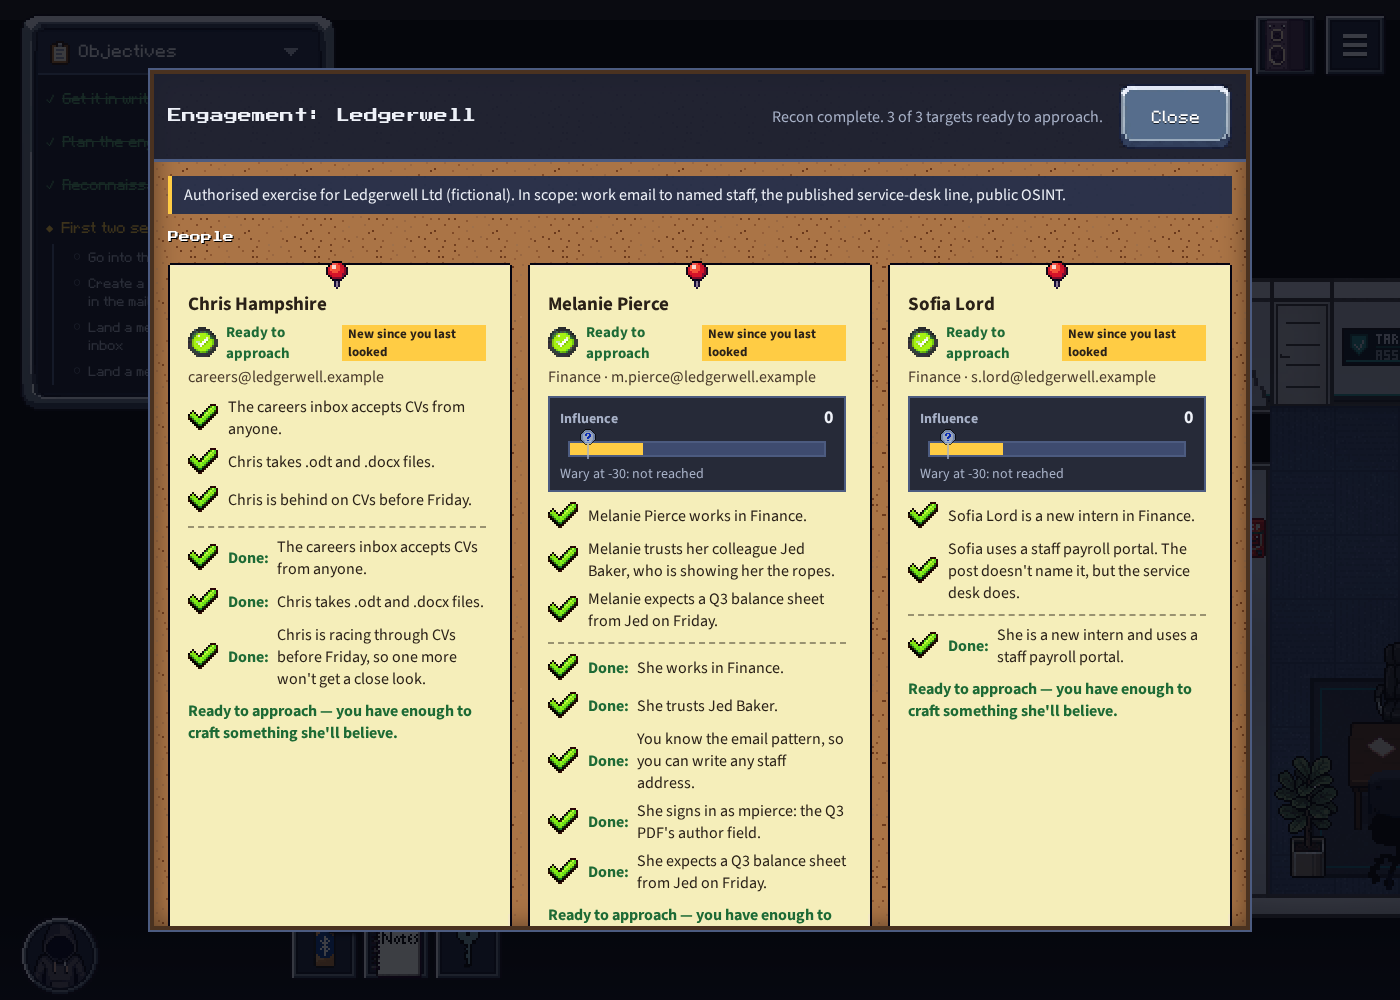
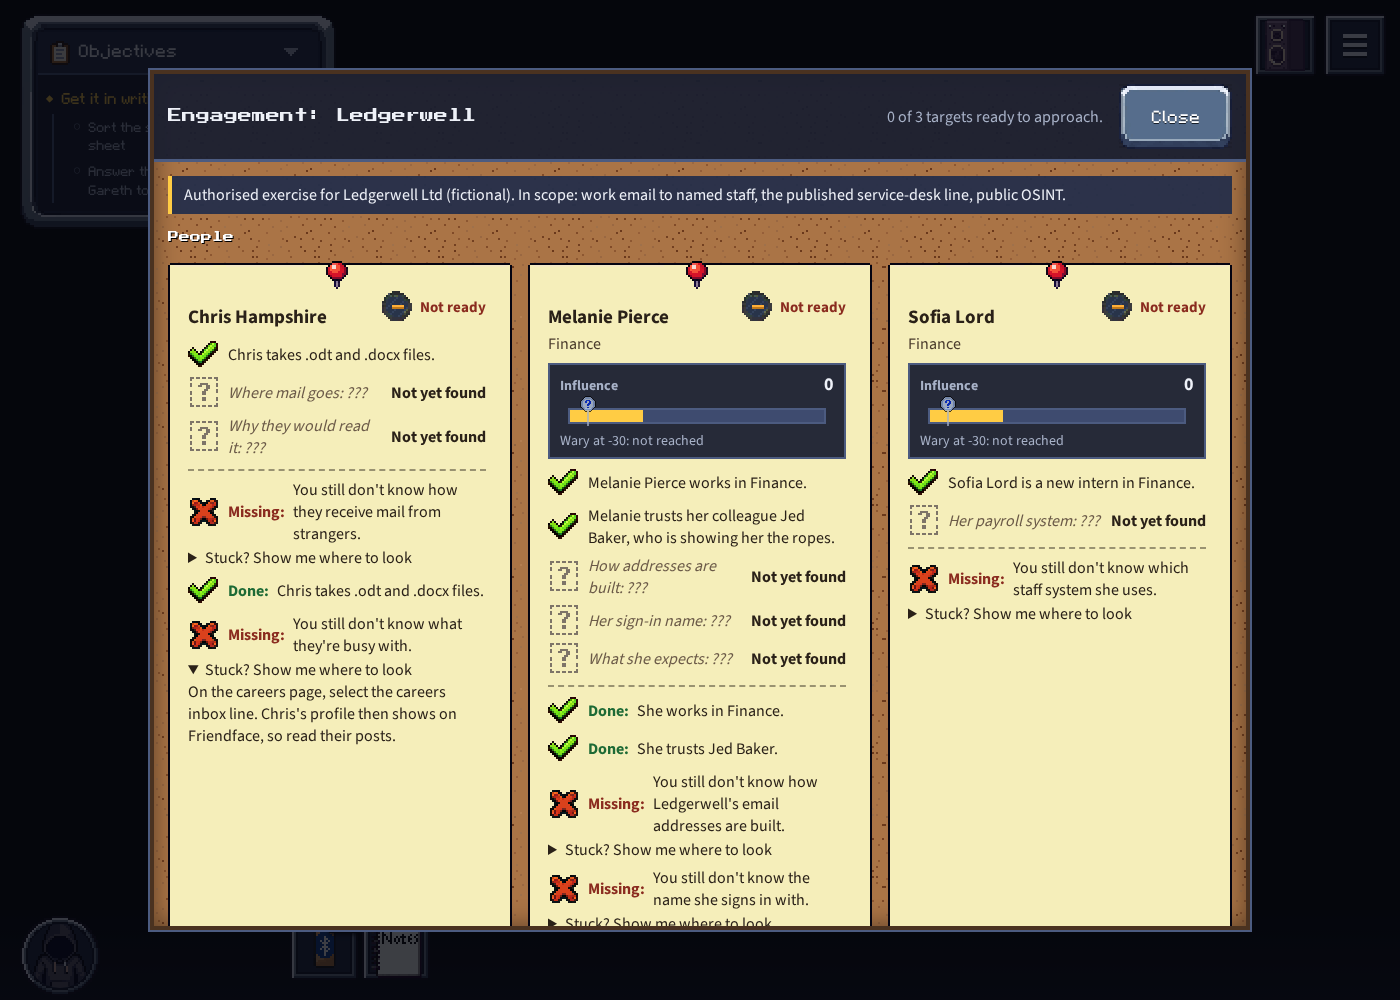
Phishing and Social Engineering (Break Escape) lab sheet: refresh for lab R15-R17 and dialogue cycle 6 (Stuck? pointers, careers-inbox line for Chris, real-domain block reason, either-order page and call, two-minute Dev lockout, voiced calls); retake Case File, composer and page builder screenshots

diff --git a/_labs/cyber_security_landscape/phishing_and_social_engineering_game.md b/_labs/cyber_security_landscape/phishing_and_social_engineering_game.md
@@ -65,13 +65,15 @@ A first run takes about 60 to 90 minutes, depending on how much you read and how
 
 ### How to Play {#how-to-play}
 
-You move with the arrow keys or by clicking. Click objects, people, doors and workstations to interact. Keys you collect go to the inventory bar at the bottom of the screen. Each workstation runs one tool as a small on-screen app (the research browser, the mail client, the page builder, the phone, the report, the triage inbox and the defender board).
+You move with the arrow keys or by clicking. Click objects, people, doors and workstations to interact. Keys you collect go to the inventory bar at the bottom of the screen. Each workstation runs one tool as a small on-screen app (the research browser, the mail client, the page builder, the phone, the report, the triage inbox and the defender board). The people are voiced, including Dev on the desk phone, so turn your sound on; every line is also shown as text.
 
 The engagement runs through four rooms off the Engagement Office: you unlock the **Recon Room**, the **Operations Room** and the **Blue Team Room** in turn, each with a key Ruth hands you when the stage before it is done.
 
+> Tip: Most tools put a **Stuck? Show me where to look** link under anything you have not found yet: each missing row on the Case File, and each empty blank in the mail composer. Open it and it names the source to check, never the answer.
+
 > Tip: Nothing in this game is scored by catching you out, and no choice is a dead end. A wrong pick comes back with the reason it was wrong, so read the feedback rather than guessing again. The "wrong" answers are there to teach, so it is worth reading why they are wrong even when you picked the right one.
 
-> Warning: Watch the people you are attacking as well as the machines. The service desk operator, Dev, is friendly and helpful, but push him too hard and he will get suspicious, stop helping, and report your call to his manager. That is realistic, and it is recoverable, but it costs you time.
+> Warning: Watch the people you are attacking as well as the machines. The service desk operator, Dev, is friendly and helpful, but push him too hard and he will get suspicious, stop helping, and report your call to his manager. That is realistic, and it is recoverable, but he will not take another call for about two minutes.
 
 ## Concepts {#concepts}
 
@@ -179,7 +181,7 @@ A **pretext** is the false identity and story you use to get someone to help you
 
 Dev, the service desk operator, is good at his job. His policy is to check a caller's claimed facts against the new-starter list: a name and a team. Both of those are on Ledgerwell's public pages, so an attacker can pass the check. What his policy does not tell him to do is call back on a number already on file, and that is the gap, not Dev.
 
-The call is a balance. Being a calm, candid colleague keeps Dev helping. Leaning on him with false **urgency** ("she's panicking, it's her first payslip") or **borrowed authority** ("her manager said you'd sort this") makes him wary; keep pushing and he refuses, then reports the call and will not take another for a while. If you get a fact wrong and own the correction early (**candour**), it costs you less than defending it. The lesson for a defender is at the end: an attacker can fake a name and a team, but not a call back to the number the company already holds.
+The call is a balance. Being a calm, candid colleague keeps Dev helping. Leaning on him with false **urgency** ("she's panicking, it's her first payslip") or **borrowed authority** ("her manager said you'd sort this") makes him wary; keep pushing and he refuses, then reports the call and will not take another for about two minutes. If you get a fact wrong and own the correction early (**candour**), it costs you less than defending it. The lesson for a defender is at the end: an attacker can fake a name and a team, but not a call back to the number the company already holds.
 
 > Question: Dev did nothing against his policy, yet he gave away enough to make the intern's email believable. Whose problem is that, and what one change to the policy would have stopped it without making Dev's job harder?
 
@@ -215,7 +217,7 @@ Find the stage you are on. Read the hint, then go back and try. If you are still
 <details markdown="1">
 <summary>Nudge</summary>
 
-Work email to named staff and the published service-desk line are the sort of thing the client is paying you to test. Personal accounts and anything that touches real customers or a live service are not, however tempting. The stop-rule is about a real compromise you did not cause: a real incident is not yours to touch, fix or ignore, so there is only one safe answer.
+Work email to named staff and the published service-desk line are the sort of thing the client is paying you to test. Staff's personal addresses are not, however tempting, and nor is anything that touches real customers or a live service. The stop-rule is about a real compromise you did not cause: a real incident is not yours to touch, fix or ignore, so there is only one safe answer.
 
 When you answer Gareth's opening question, the honest answer is the one that keeps people reporting: the test is about the gaps in his process, not about catching anyone out.
 
@@ -264,12 +266,16 @@ The objective is about learning how far an attack gets, not about disrupting pay
 
 ![The OSINT research browser]({{ site.baseurl }}/assets/images/cyber_security_landscape/phishing_and_social_engineering_game/04-osint-workstation.png)
 
-> Hint: The Case File board has a card for each target with "missing" rows. Each gap tells you what is short, and a "Stuck?" link under it points you at the source. Everything you need is public.
+> Hint: The Case File has a card for each target with **Missing** rows. Each one says what you still don't know, and the **Stuck? Show me where to look** link under it names the source. Everything you need is public.
+
+![The Case File, with a Stuck? pointer open on Chris's card]({{ site.baseurl }}/assets/images/cyber_security_landscape/phishing_and_social_engineering_game/05-case-file-board.png)
 
 <details markdown="1">
 <summary>Nudge: filling the cards</summary>
 
-Use the research browser on the OSINT Workstation. The team page gives roles; the team notes and the staff social posts give what each person trusts and is waiting for; a lookup tool gives the email pattern, so you can write any staff address. One card needs the company's **username** convention, not just the address pattern, and that comes from a different kind of source.
+Use the research browser on the OSINT Workstation. You record a fact by selecting the line that says it. The team page gives roles; the team notes and the staff social posts on Friendface give what each person trusts and is waiting for; the How to apply page says what files the careers inbox takes; a lookup under **Tools** gives the email pattern, so you can write any staff address. One card needs the company's **username** convention, not just the address pattern, and that comes from a different kind of source.
+
+Chris's Friendface profile is hidden at first. It appears once you select the careers inbox line on the company's Careers page, so a card that will not fill often means a line you read but did not select.
 
 Watch for two decoys. The archived 2019 org chart is marked as old; the second J. Baker is a plumber in Leeds. A fact you confirm from a current source beats a fact that merely fits.
 
@@ -278,7 +284,7 @@ Watch for two decoys. The archived 2019 org chart is marked as old; the second J
 <details markdown="1">
 <summary>Nudge: the username pattern</summary>
 
-A published document keeps its author's name in its properties, whether or not the author meant to leave it there. Open the company's published PDF and read its properties; the author field gives away how usernames are built. Ruth will nudge you towards it if the board says recon is otherwise complete.
+A published document keeps its author's name in its properties, whether or not the author meant to leave it there. Open the company's published PDF and read its properties; the author field gives away how usernames are built. Melanie's card keeps a "sign-in name" row open until you do, and Ruth will not hand over the Operations Room key without it.
 
 **Learn it:** ==action: Open the PDF's Document properties and read the Author field== before you let the game tick the card, so you see where the leak is.
 
@@ -287,10 +293,11 @@ A published document keeps its author's name in its properties, whether or not t
 <details markdown="1">
 <summary>Steps</summary>
 
-1. \==action: Open the OSINT Workstation and read the company site, the social profiles and the team notes==.
-2. \==action: Run the lookup tool for the email pattern==, and the name search (noticing the plumber).
-3. \==action: Open the published PDF's properties and read the author==.
-4. \==action: Fill all three cards on the Case File board==, then take the Operations Room key from Ruth.
+1. \==action: Open the OSINT Workstation and read the company site: Our Team, Team notes, Careers, How to apply and the Archive==, selecting each line you want to keep.
+2. \==action: On the Careers page, select the careers inbox line==, then read Chris's posts, which now show on Friendface, along with Melanie's and Sofia's.
+3. \==action: Under Tools, run the Hunter lookup for the email pattern==, and the name search (noticing the plumber).
+4. \==action: Open the published PDF and read its properties, including the author==.
+5. \==action: Check the Case File until all three cards are ready==, then take the Operations Room key from Ruth.
 
 </details>
 
@@ -300,14 +307,12 @@ A published document keeps its author's name in its properties, whether or not t
 
 **Where:** the Operations Room (east), at the Mail Workstation. **Goal:** get the careers inbox and then Melanie Pierce to act on a message.
 
-![The mail composer, building a spear-phish]({{ site.baseurl }}/assets/images/cyber_security_landscape/phishing_and_social_engineering_game/06-mail-composer.png)
-
 > Hint: The careers inbox trusts anyone who looks like an applicant. Melanie only acts on mail from a colleague she trusts, so the question is how to look like that colleague.
 
 <details markdown="1">
 <summary>Nudge: the careers inbox</summary>
 
-An inbox whose whole job is to open files from strangers will open yours. Apply as a candidate, attach the kind of file the careers page asks applicants to send, and it lands. Real applicants write from a webmail address, so a throwaway account looks the part; you can also create one in the mail client, though for a quick test the guest workstation works and Ruth will tell you what that costs.
+An inbox whose whole job is to open files from strangers will open yours. Apply as a candidate, attach the kind of file the How to apply page asks for, and it lands. Real applicants write from a webmail address, so Ruth wants you to make a throwaway one first: choose **Create account** in the account list at the top of the mail client.
 
 </details>
 
@@ -325,10 +330,10 @@ One trap: the throwaway webmail account can only send as itself. To set the From
 <details markdown="1">
 <summary>Steps</summary>
 
-1. \==action: Send to the careers inbox as an applicant, with the file type the careers page asks for==.
-2. \==action: Switch to the account that lets you set the From line==.
+1. \==action: Create a throwaway webmail account in the mail client, and send to the careers inbox from it as an applicant==, with the file type the How to apply page asks for.
+2. \==action: Switch back to the guest workstation account==, the one that lets you set the From line.
 3. \==action: Compose to Melanie as the colleague she trusts==: his real address, her name, the file she expects.
-4. \==action: Send, and read the reply or the factor feedback== if it did not land.
+4. \==action: Send, and read the reply or the factor feedback== if it did not land. **Edit & resend** keeps your message so you can change one part.
 
 </details>
 
@@ -336,16 +341,18 @@ One trap: the throwaway webmail account can only send as itself. To set the From
 
 ### Preparing for Sofia: the Page and the Call {#hints-prepare}
 
-**Where:** the Operations Room, at the Desk Phone and the Page Builder. **Goal:** call the service desk for the portal's name, its sender and the payslip date, then build a look-alike payroll page. Call first: the Page Builder waits until you know what Sofia would expect to see.
+**Where:** the Operations Room, at the Desk Phone and the Page Builder. **Goal:** call the service desk for the portal's name, its sender and the payslip date, and build a look-alike payroll page. Do them in either order. Until you have called, the Page Builder's "What Sofia is expecting" box stays empty, but you can still build.
 
-![The page builder and its look-alike domain choices]({{ site.baseurl }}/assets/images/cyber_security_landscape/phishing_and_social_engineering_game/07-page-builder.png)
+![The page builder refusing the company's real domain]({{ site.baseurl }}/assets/images/cyber_security_landscape/phishing_and_social_engineering_game/07-page-builder.png)
 
 > Hint: Sofia the intern only trusts her payroll portal's own notices. Your recon knows she uses a portal, but not its name, its sender or when payslips go out. The service desk knows all three.
 
 <details markdown="1">
 <summary>Nudge: the look-alike page</summary>
 
-The Page Builder scores your page against what would convince Sofia: the brand (the portal she actually uses), the domain, the logo and the wording. The domain is the hard part. A domain that reads nothing like the real one, or has an obvious extra word, scores low; the convincing ones are the look-alikes that pass a quick glance. Match the wording to a real payslip notice, and avoid the version riddled with spelling slips.
+The Page Builder scores your page against what would convince Sofia: the service (the **Which service?** row lists only the portal she actually uses), what the page says it is for, the address, the logo, the wording, which details the form asks for, and the padlock. The address is the hard part. One that reads nothing like the real one, or has one obviously wrong letter, scores low; the convincing ones are the look-alikes that pass a quick glance. Match the wording to a real payslip notice, avoid the version riddled with spelling slips, and do not ask for more than the real portal does.
+
+The company's real address is on the list, drawn as a locked, dashed note: you cannot use it, because you do not own it. If you press **Score** with no address chosen, the Score panel says so and asks you to pick a look-alike. One look-alike is drawn almost the same as the real address (a letter from another alphabet), so if Score says you have no address, check which one you actually picked.
 
 </details>
 
@@ -354,7 +361,7 @@ The Page Builder scores your page against what would convince Sofia: the brand (
 
 Ring the service desk from the desk phone as a colleague helping the new intern. Know her name and team before you dial; Dev checks both against the new-starter list, and both are on the public pages. Then ask for what you are missing: the portal's name and sending address, and the release date.
 
-Stay calm and candid. False urgency or dropping a manager's name makes Dev wary; keep it up and he refuses and reports the call, and you wait before he will talk again. If you named the wrong team, own the correction straight away rather than arguing it.
+Stay calm and candid. The influence meter at the top of the call shows how Dev feels, and each ask costs a little of it. False urgency or dropping a manager's name makes him wary; keep it up and he refuses and reports the call, and the phone tells you how long to wait (about two minutes) before he will talk again. If he refuses an ask but has not reported you, you can hang up and ring again. If you named the wrong team, own the correction straight away rather than arguing it.
 
 ![The pretext call to Dev on the service desk]({{ site.baseurl }}/assets/images/cyber_security_landscape/phishing_and_social_engineering_game/08-service-desk-call.png)
 
@@ -366,17 +373,21 @@ Stay calm and candid. False urgency or dropping a manager's name makes Dev wary;
 1. \==action: Call the service desk from the desk phone==, opening as the intern's colleague with her name and team.
 2. \==action: Ask for the portal's name and sender, and the payslip release date==.
 3. \==action: Keep Dev calm==: avoid urgency and borrowed authority, and correct any mistake openly.
-4. \==action: Open the Page Builder==, match the brand, a convincing look-alike domain and the right wording, and build to its pass score.
+4. \==action: Open the Page Builder==, pick Sofia's portal, the payslip purpose, a convincing look-alike address, the right wording and only the details the real portal asks for, then press **Score** until it says the page is convincing enough for her.
 
 </details>
 
-> Warning: The careers page names Ledgerwell's finance tools, but that is not Sofia's payslip portal. If a system blank will not take what you tried, you have the wrong system; ask the desk for the real one.
+> Warning: The Careers page names Ledgerwell's finance tools, and the mail composer may offer one of them in Sofia's "which system" blank. That is not her payslip portal, and a message naming it will not land. The desk knows the real one.
 
 ### The Hard Send: Sofia Lord {#hints-hard-send}
 
 **Where:** the Mail Workstation. **Goal:** put the page and the call facts together and land a message on Sofia.
 
 > Hint: Now you have everything Sofia checks: the portal's sender, its name, the release date, and a page that looks like her portal. Use all of it in one message.
+
+![Sofia's message before the call, with the Stuck? pointer under the sender]({{ site.baseurl }}/assets/images/cyber_security_landscape/phishing_and_social_engineering_game/06-mail-composer.png)
+
+If a blank in the composer reads **no evidence yet** or offers nothing that fits, Send stays greyed out ("A blank needs evidence you haven't found yet") or the message fails. Open **Stuck? Show me where to look** under that blank: for Sofia's sender, sending address and release date it points you back to the desk phone.
 
 <details markdown="1">
 <summary>Steps</summary>
@@ -401,7 +412,7 @@ Stay calm and candid. False urgency or dropping a manager's name makes Dev wary;
 <details markdown="1">
 <summary>Nudge</summary>
 
-For the first question, look at what the tables actually count and ask which thing is missing from all of them. For the second, think about what a "first send landed" column tells you that "landed in the end" does not: a target who fell to the first try had no warning, and every failed send was a chance to spot it.
+For the first question, look at what the tables actually count and ask which thing is missing from all of them. The line just above the question, "Email and page reports received: none", says why. For the second, think about what a "first send landed" column tells you that "landed in the end" does not: a target who fell to the first try had no warning, and every failed send was a chance to spot it.
 
 For each finding, some wrong causes sound reasonable (a spam filter, a careless member of staff) and some wrong controls sound sensible (training, SPF alone, password expiry, checking the padlock). Read why each is wrong before you pick again; the explanations are the lesson.
 
@@ -429,7 +440,7 @@ For each finding, some wrong causes sound reasonable (a spam filter, a careless 
 <details markdown="1">
 <summary>Nudge: the triage</summary>
 
-Two of these messages are your own earlier sends, and the headers give them away now. One genuine message fails SPF because a mailing list forwarded it, yet its DKIM signature still aligns, so it is real. One phish passes every authentication check because a look-alike domain really sent it; the trick is in the address, not the headers. Read addresses right to left and letter by letter. You need to clear the pass mark; if you fall short, Try again is offered and nothing is lost.
+Two of these messages are your own earlier sends, and the headers give them away now. One genuine message fails SPF because a mailing list forwarded it, yet its DKIM signature still aligns, so it is real. One phish passes every authentication check because a look-alike domain really sent it; the trick is in the address, not the headers. Read addresses right to left and letter by letter. When you mark a message, a "What made you say that?" list may ask which signs you saw; tick only the ones you found, and scroll it to see every option. You need to clear the pass mark; if you fall short, **Try again** is offered and nothing is lost.
 
 </details>
 
@@ -468,14 +479,17 @@ The board asks for one fix per exposure your recon exploited: the leaked address
 | --- | --- |
 | A scope card bounces back | You sorted it into the wrong pile; the line tells you which rule it breaks |
 | The Recon Room / Operations Room / Blue Team Room door is locked | The stage before it is not finished; Ruth hands you each key when it is |
-| The board says a target card is incomplete | A "missing" row still needs a public source; the "Stuck?" link points at it |
-| The board says recon is done but Ruth asks about the PDF | You have not read the published PDF's properties yet, so the username card is still open |
+| The board says a target card is incomplete | A **Missing** row still needs a public source; **Stuck? Show me where to look** under it names the source |
+| Chris's posts are nowhere on Friendface | You have not selected the careers inbox line on the Careers page yet |
+| "You still don't know the name she signs in with" | You have not read the published PDF's properties yet; the Operations Room stays locked until you do |
 | A send fails with a factor marked "✗" | That one check failed; read the line and fix only that part |
 | "The name and the address belong to two different people" | Your From name and From address do not match; use the trusted person's real address |
 | "You're still sending as yourself" | You are on an account that cannot spoof; switch to the one that sets the From line |
-| The "which system" blank will not take your answer | You used a finance tool, not Sofia's payslip portal; ask the desk for the real one |
-| "There's no page behind that link" | Build the look-alike page in the Page Builder and attach it before sending to Sofia |
-| Dev says he will run it past his manager, and the phone locks out | You pushed too hard; wait a little, then call back calmly with your facts straight |
+| A blank reads "no evidence yet" and Send is greyed out | You have not found that fact yet; open **Stuck? Show me where to look** under the blank |
+| Sofia's send fails on the system it names | You picked a finance tool from the Careers page, not her payslip portal; the desk knows the real one |
+| "She won't act on a link with no site behind it" | Build the look-alike page in the Page Builder and attach it before sending to Sofia |
+| "Blocked address", and Score says the address belongs to the company | The real domain cannot be used; pick a look-alike address and press Score again |
+| Dev says he will run it past his manager, and the phone will not ring him | You pushed too hard; the message says how long to wait (about two minutes), then call back calmly with your facts straight |
 | The report workstation says there is nothing to write up | All three targets have to act on a message first |
 | A finding pick comes back "Not enough" | The cause or control you chose misses the gap or blames a person; read the reason |
 | The triage ends below the pass mark | Re-read the authentication results and the addresses, then Try again |
